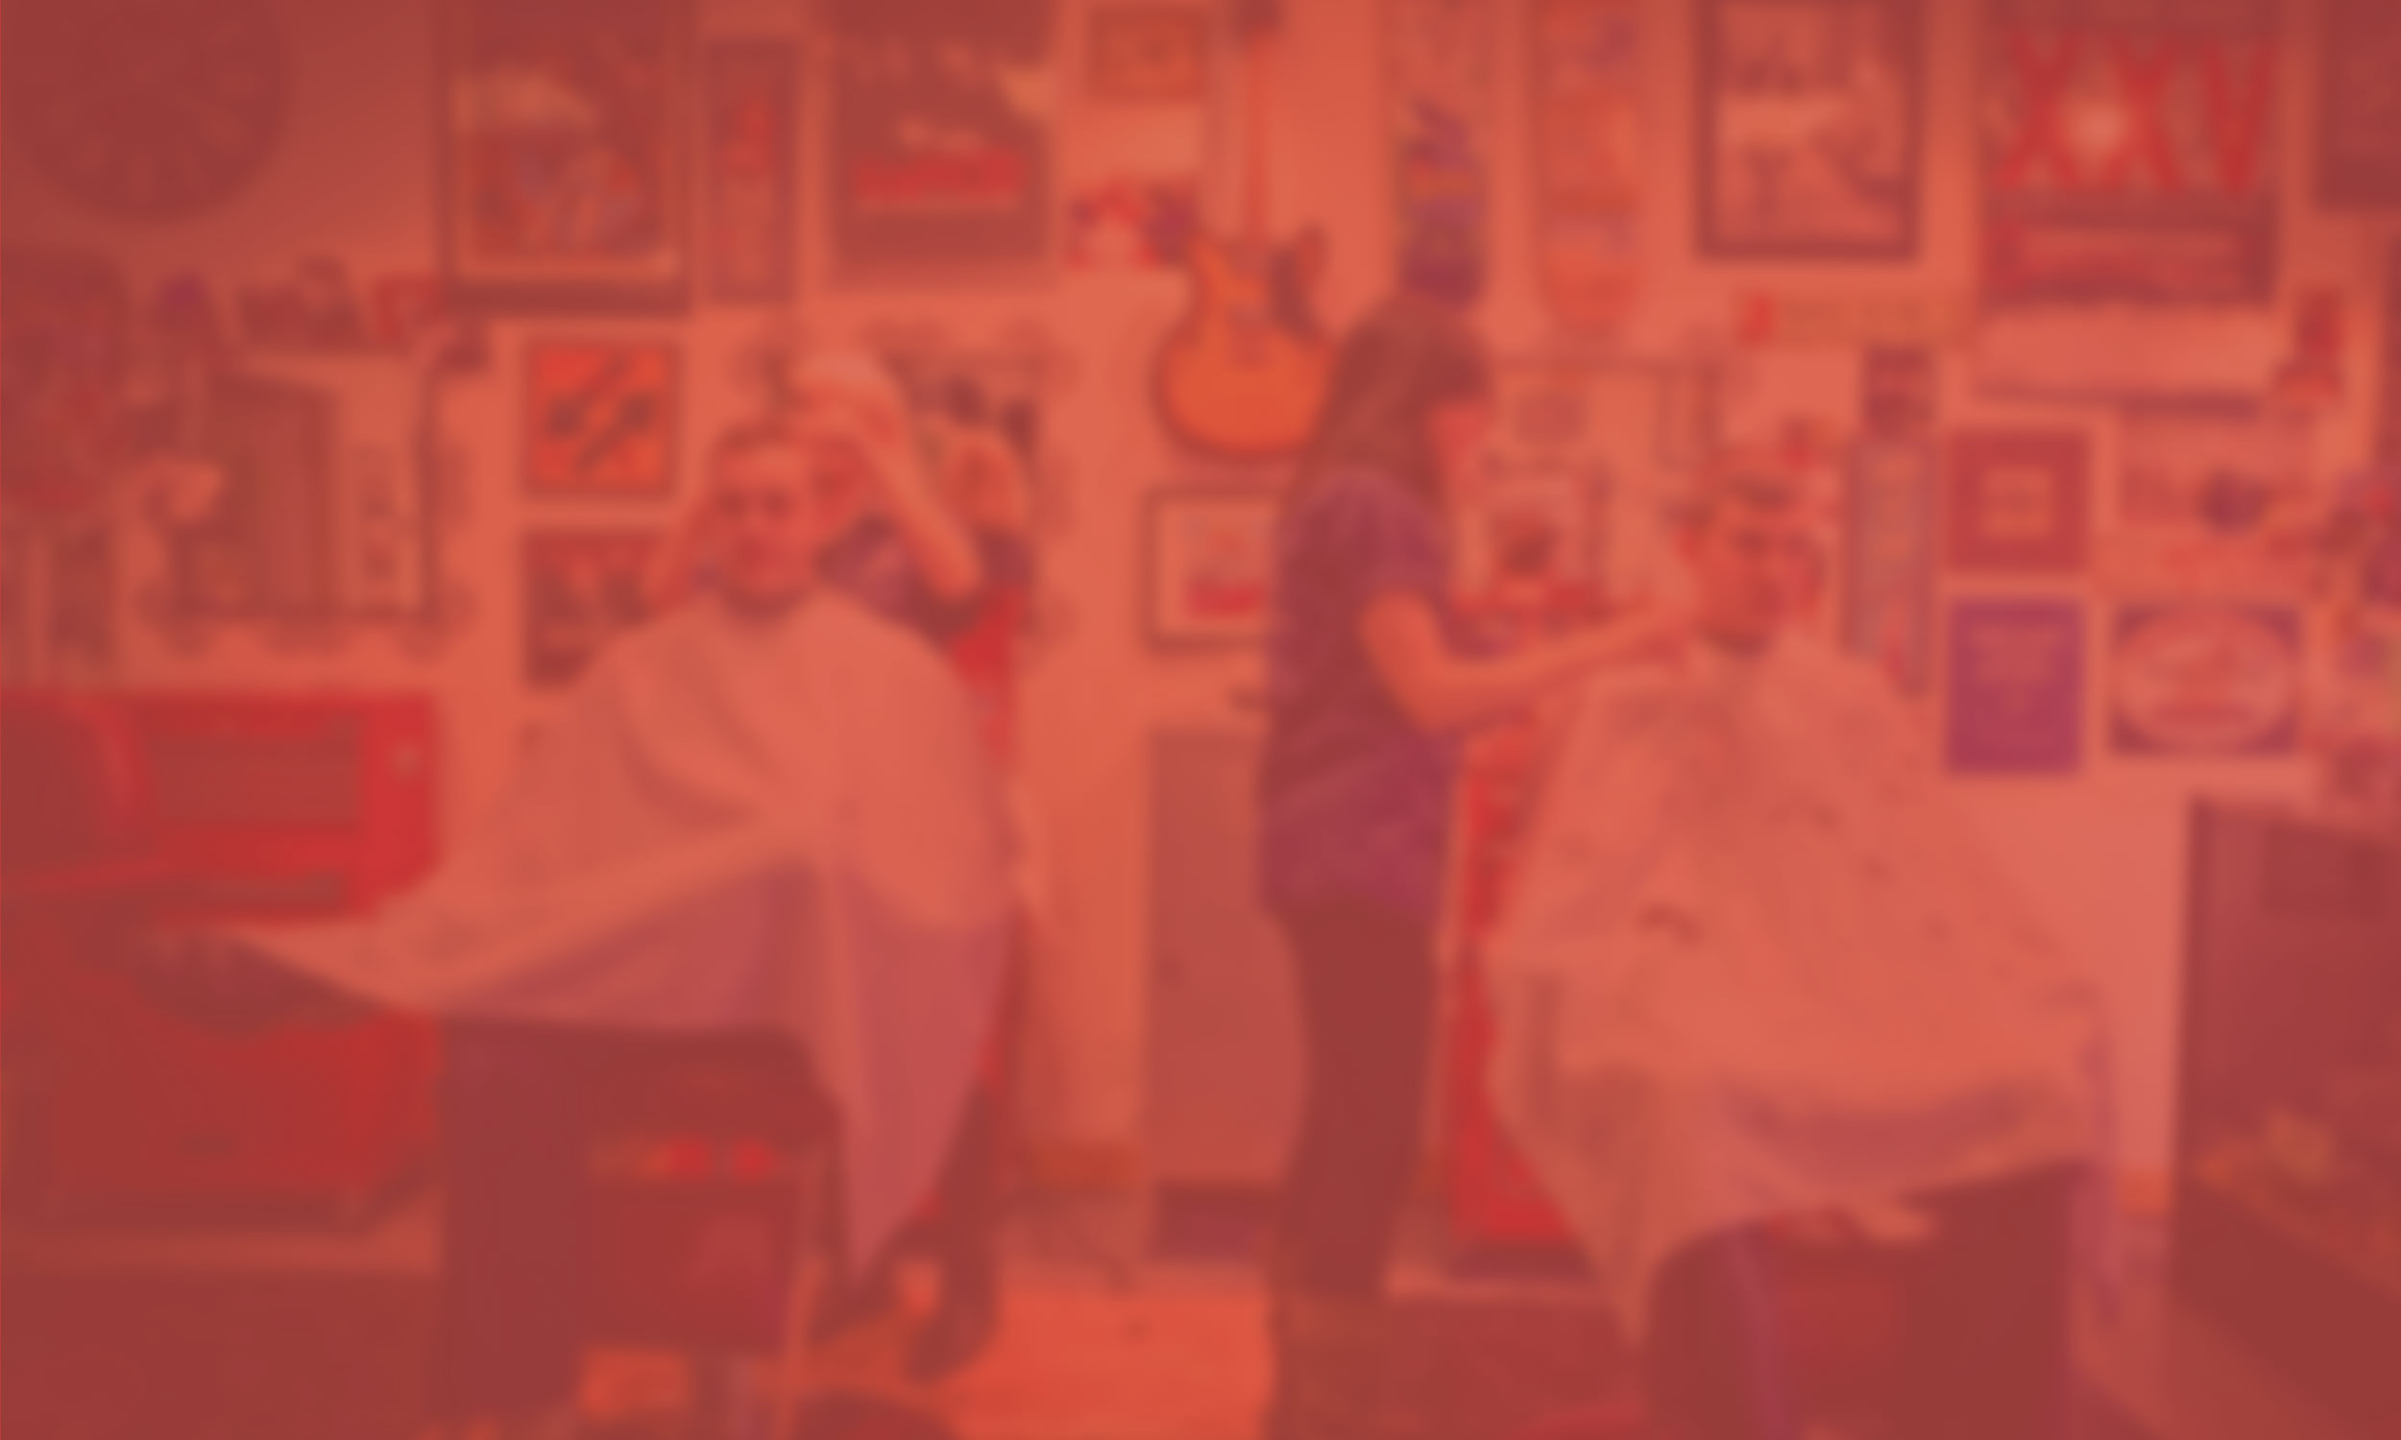
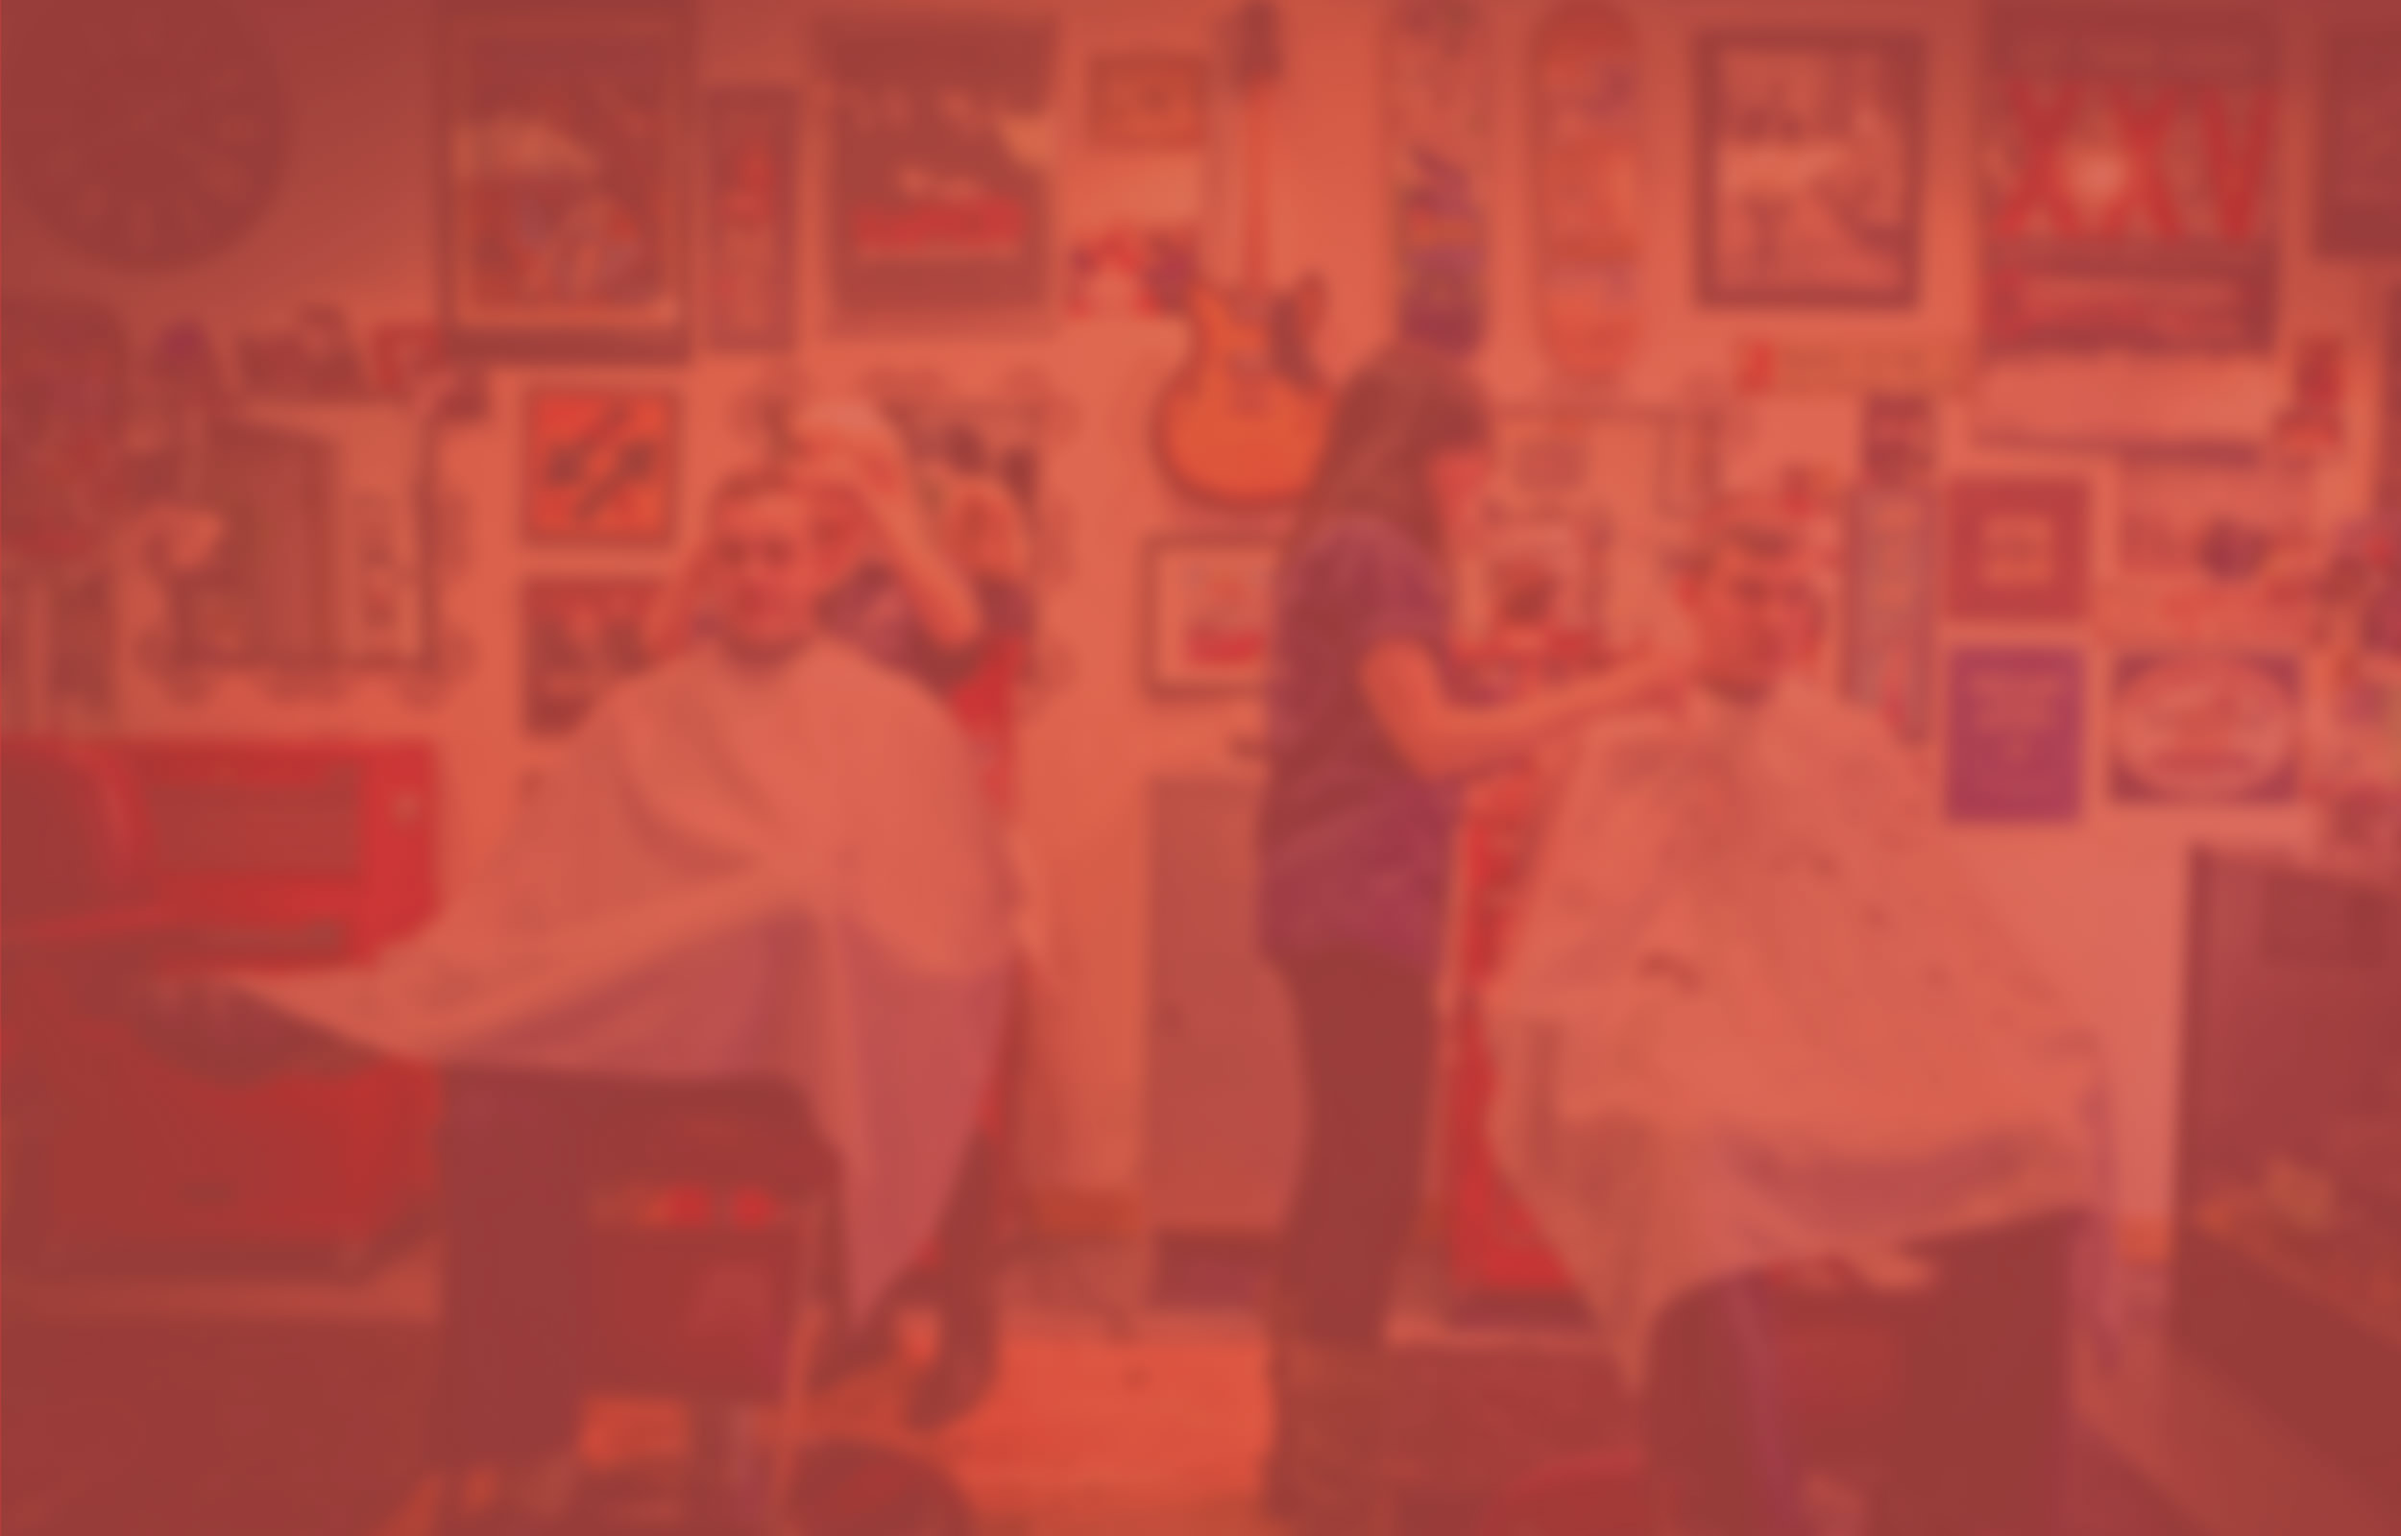
Add toni&guy sponsor.

diff --git a/app/assets/stylesheets/views/_home.scss b/app/assets/stylesheets/views/_home.scss
@@ -8,12 +8,12 @@
   width: 100%;
 
   .container {
-    @extend %transition-all;
     @include use-gpu;
     @include rem(padding-top, 24px);
     @include transition(all 0.2s 0.4s ease-in-out);
-    @include transform(translate3d(0,20px,0));
+    @include transform(translate3d(0,10px,0));
     opacity: 0;
+    padding-bottom: 0;
     visibility: hidden;
 
     &.slide-in {
@@ -53,6 +53,18 @@
   margin-bottom: 0;
 }
 
+.sponsors {
+  @extend %text-align-right;
+  @include rem(margin-top, 45px);
+  position: relative;
+}
+
+.sponsor-heading {
+  @include rem(margin-bottom, 4px);
+  font-weight: 300;
+  margin-top: 0;
+}
+
 .home-haircuts {
   @extend %background-ltgray;
 }
@@ -63,3 +75,4 @@
   max-width: 410px;
   width: 100%;
 }
+

diff --git a/app/assets/stylesheets/media/_media.scss b/app/assets/stylesheets/media/_media.scss
@@ -1,5 +1,6 @@
 @media only screen and (max-width: 65.000em) {
-  .container {
+  .container,
+  .secondary-container {
     max-width: 808px;
     padding-left: 16px;
     padding-right: 16px;
@@ -7,6 +8,12 @@
 
   .haircut-item {
     width: 30.33333333333333%;
+
+    .home-haircuts & {
+      &:last-of-type {
+        display: none;
+      }
+    }
   }
 }
 
@@ -18,5 +25,11 @@
   .haircut-item {
     margin-left: 5%;
     width: 45%;
+
+    .home-haircuts & {
+      &:last-of-type {
+        display: block;
+      }
+    }
   }
 }

diff --git a/app/assets/stylesheets/modules/_components.scss b/app/assets/stylesheets/modules/_components.scss
@@ -30,6 +30,20 @@
   padding-top: 0;
 }
 
+.secondary-container {
+  @extend %clearfix;
+  @include rem(padding-bottom, 36px);
+  margin: 0 auto;
+  max-width: 960px;
+  width: 100%;
+}
+
+@media only screen and (min-width: 80.000em) {
+  .secondary-container {
+    max-width: 1152px;
+  }
+}
+
 .heading {
   margin-top: 0;
 }

diff --git a/app/assets/stylesheets/_global.scss b/app/assets/stylesheets/_global.scss
@@ -55,7 +55,7 @@ h3 {
 h4 {
   @include font-size(16px);
   @include rem(margin-top, 16px);
-  @include rem(margin-bottom, 8.879px);
+  @include rem(margin-bottom, 16px);
 }
 
 h5 {
